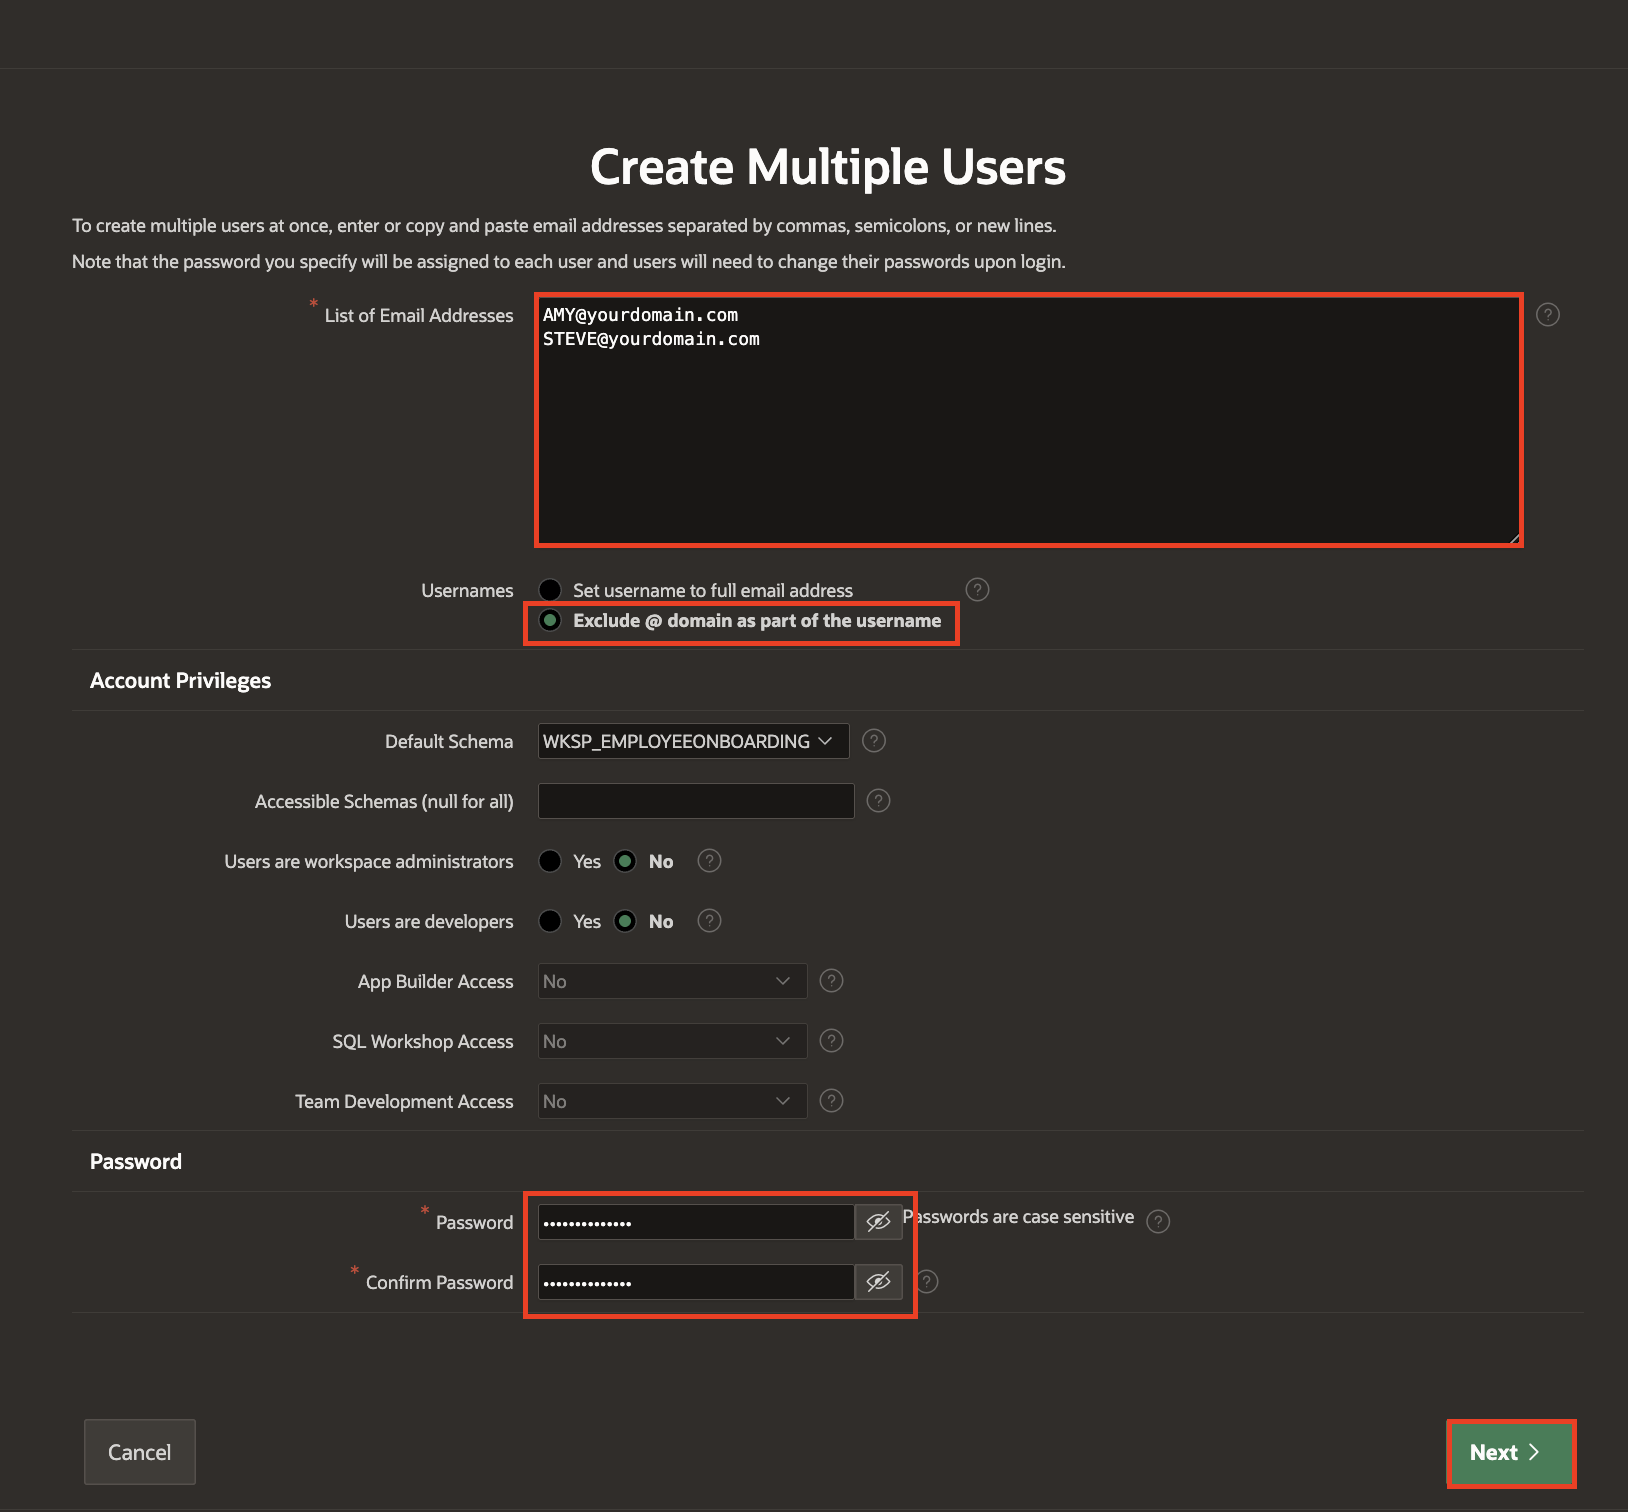
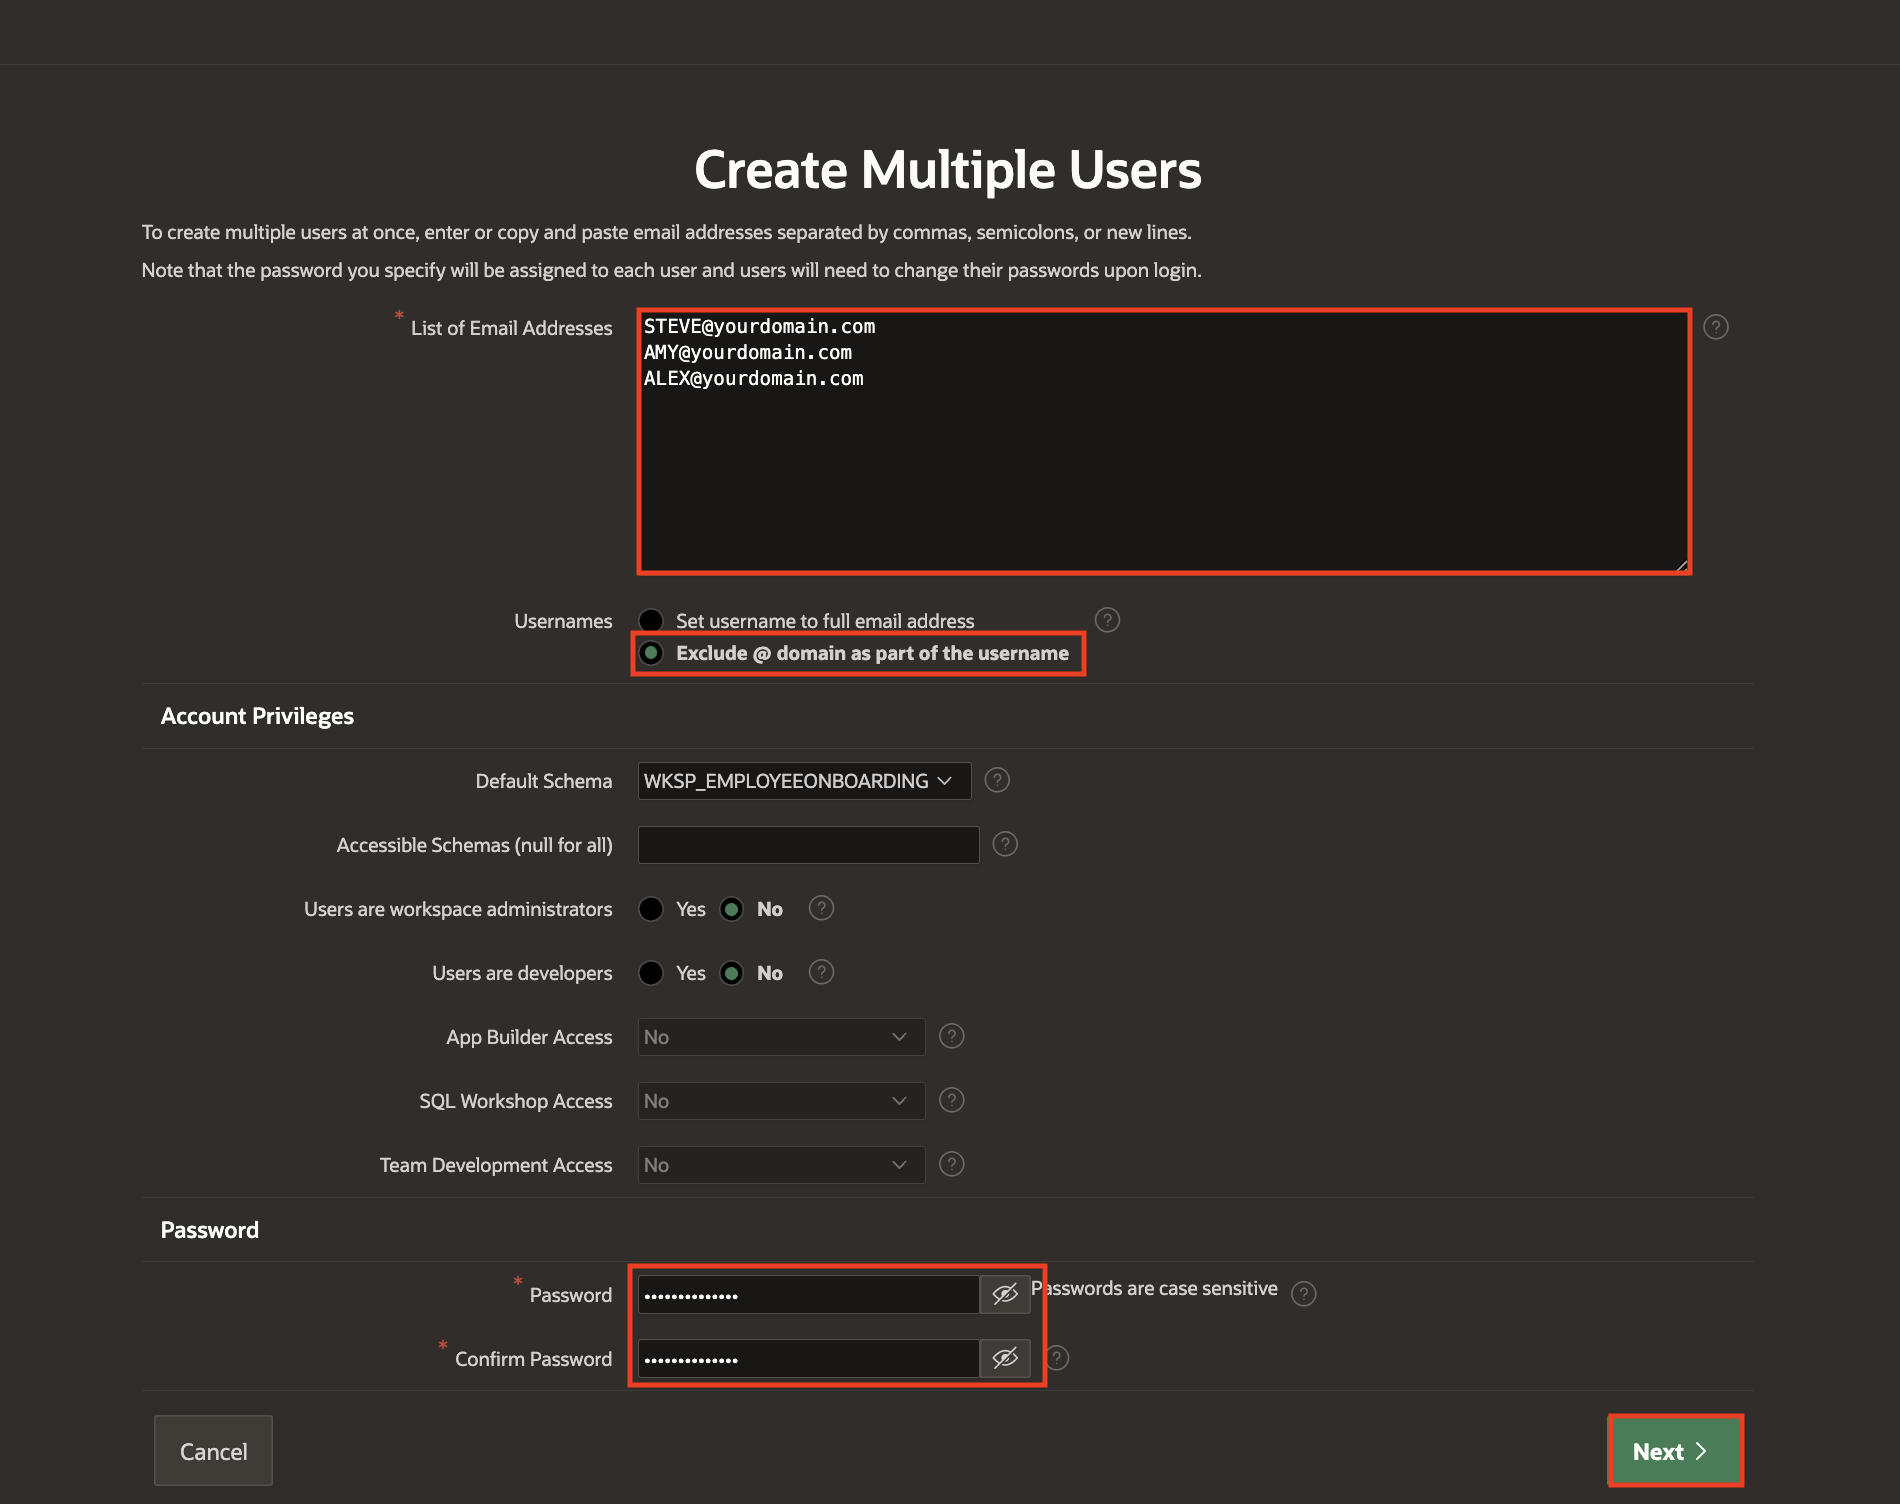
emp onboarding

diff --git a/employee-onboarding/7-archived-tasks/archived-tasks.md b/employee-onboarding/7-archived-tasks/archived-tasks.md
@@ -1,28 +1,32 @@
-# Create Pages in the Application
+# Archiving Tasks and Workflows in Oracle APEX
 
 ## Introduction
 
-In this hands-on lab, you will create a page for collecting new appointment requests. You will create pages for managing doctor appointments, incorporating workflows, task lists, and feedback.
+In any workflow-based application, retaining historical records is crucial for auditing, compliance, and process tracking. Oracle APEX provides purgeable views for tasks and workflows, but without proper archiving, important data might be lost once purged. To address this, we can create SQL scripts, packages, and automations that safely archive tasks and workflows into dedicated tables.
+
+This lab guides you through building a complete archiving solution. You will create SQL scripts to define archive tables and PL/SQL packages, set up automations to execute the archiving process daily, and design a page to view archived tasks and workflows.
 
 ### Objectives
 
 In this lab, you will learn how to:
 
-- Create the New Appointments page
-- Create the Patient Tasks page
-- Create the Doctors Task page
-- Modify the Task Details page
-- Create the Feedback page and View appointment workflows page
+- Create a SQL Script to build archive tables and PL/SQL packages (TASKS_ARCHIVER and WORKFLOWS_ARCHIVER).
 
-Estimated Time: 20 minutes
+- Set up Oracle APEX Automations that run daily to archive workflows and tasks.
+
+- Build an APEX page with interactive reports to view archived tasks, workflows, and their history.
+
+By the end of this lab, you’ll have an automated archiving system that keeps your workflow data safe and accessible for long-term reference.
+
+Estimated Time: 15 minutes
 
 ### Prerequisites
 
 - All the previous Labs have been completed.
 
-## Task 1: Create the New Appointments Page
+## Task 1: Create a SQL Script Page
 
-Now that the Workflow is created, let us create the page that the hospital staff will use to create a new appointment.
+Now that the Workflow is created, let us create a SQL script that archives workflows
 
 1. Navigate to **SQL Workshop** > **SQL Scripts**.
 
@@ -791,11 +795,13 @@ Now that the Workflow is created, let us create the page that the hospital staff
 
 ## Summary
 
-You have successfully created a comprehensive Oracle APEX application for managing doctor appointments with workflows, task lists, and feedback features.
+In this lab, you created a SQL Script Page to define archive tables and packages, and configured two daily Automations—one for workflows and another for tasks—to execute archiving procedures. You also developed a new Archived Tasks and Workflows Page with interactive reports for easy access to archived data.
+
+This approach ensures that workflow-related information is retained securely, supporting auditability and historical analysis without impacting live workflow performance.
 
 ## What's Next
 
-In the next lab, you will understand the behavior of the **Doctor Appointments Made Easy!** application through hands-on activities. You will also perform various tasks to understand the workflow and automation implemented in the application.
+In the next lab, you will understand the behavior of the **Employee Onboarding** application through hands-on activities. You will also perform various tasks to understand the workflow and automation implemented in the application.
 
 ## Acknowledgements
 

diff --git a/employee-onboarding/8-running-the-app/8-running-the-app.md b/employee-onboarding/8-running-the-app/8-running-the-app.md
@@ -1,12 +1,15 @@
-# Run the 'Doctor Appointments Made Easy!' Application
+# Run the Employee Onboarding Application
 
 ## Introduction
 
-In this lab, you will run and understand the behavior of the **Employee Onboarding** application through hands-on activities. You also perform various tasks to understand the workflow and automation implemented in the application.
+In this lab, you will run and explore the Employee Onboarding application to understand how the workflows and automations function in a real scenario. Through hands-on activities, you will simulate the process of hiring and onboarding a new employee and observe how the system handles different roles and tasks.
+
+### Real-world Scenario:
+A Sales Manager recruits a new employee just one day before the scheduled onboarding. The HR team then completes the onboarding process, assigns the employee to the Sales Manager, and ensures the reporting structure is correctly established. This scenario helps demonstrate how Oracle APEX workflows and automations work together to manage onboarding efficiently, while also maintaining proper assignment and organizational hierarchy.
 
 ### Objectives
 
-- Demonstrate the behavior of the "Employee Onboarding" application through hands-on activities.
+- Demonstrate the behavior of the Employee Onboarding application through hands-on activities.
 
 Estimated Time: 15 minutes
 
@@ -88,26 +91,27 @@ In this task, you will recreate the previously created  employees in the Applica
 
 2. Log in as an Administrator and Navigate to **Administration** > **Employees** page.
 
-   ![login to the application](./images/login-to-app.png =50%x*)
+   ![login to the application](./images/login-to-app.png =30%x*)
 
 3. Click **Create**.
 
    ![Create  Users - details](./images/create-emp1.png " ")
 
-4. Create the users : AMY and STEVE with appropiate details.
+4. Create the users : AMY, STEVE and ALEX with appropiate details.
 
    ![Create Amy](./images/create-amy.png " ")
-   
-   ![Create Steve](./images/create-steve.png =50%x*)
 
-   ![Create ALEX](./images/create-alex.png =50%x*)
-   
+   ![Create Steve](./images/create-steve.png =40%x*)
+
+   ![Create ALEX](./images/create-alex.png =40%x*)
+
+
 
 ## Task 3: Onboard an Employee
 
-1. Log in as STEVE (Hospital Staff).
+1. Log in as STEVE (HR) to onboard a new employee
 
-   ![login to the application](./images/login-to-app.png " ")
+   ![login to the application](./images/login-steve.png =40%x*)
 
 3. Click **New Employee - Onboarding** to onboard a new employee.
 
